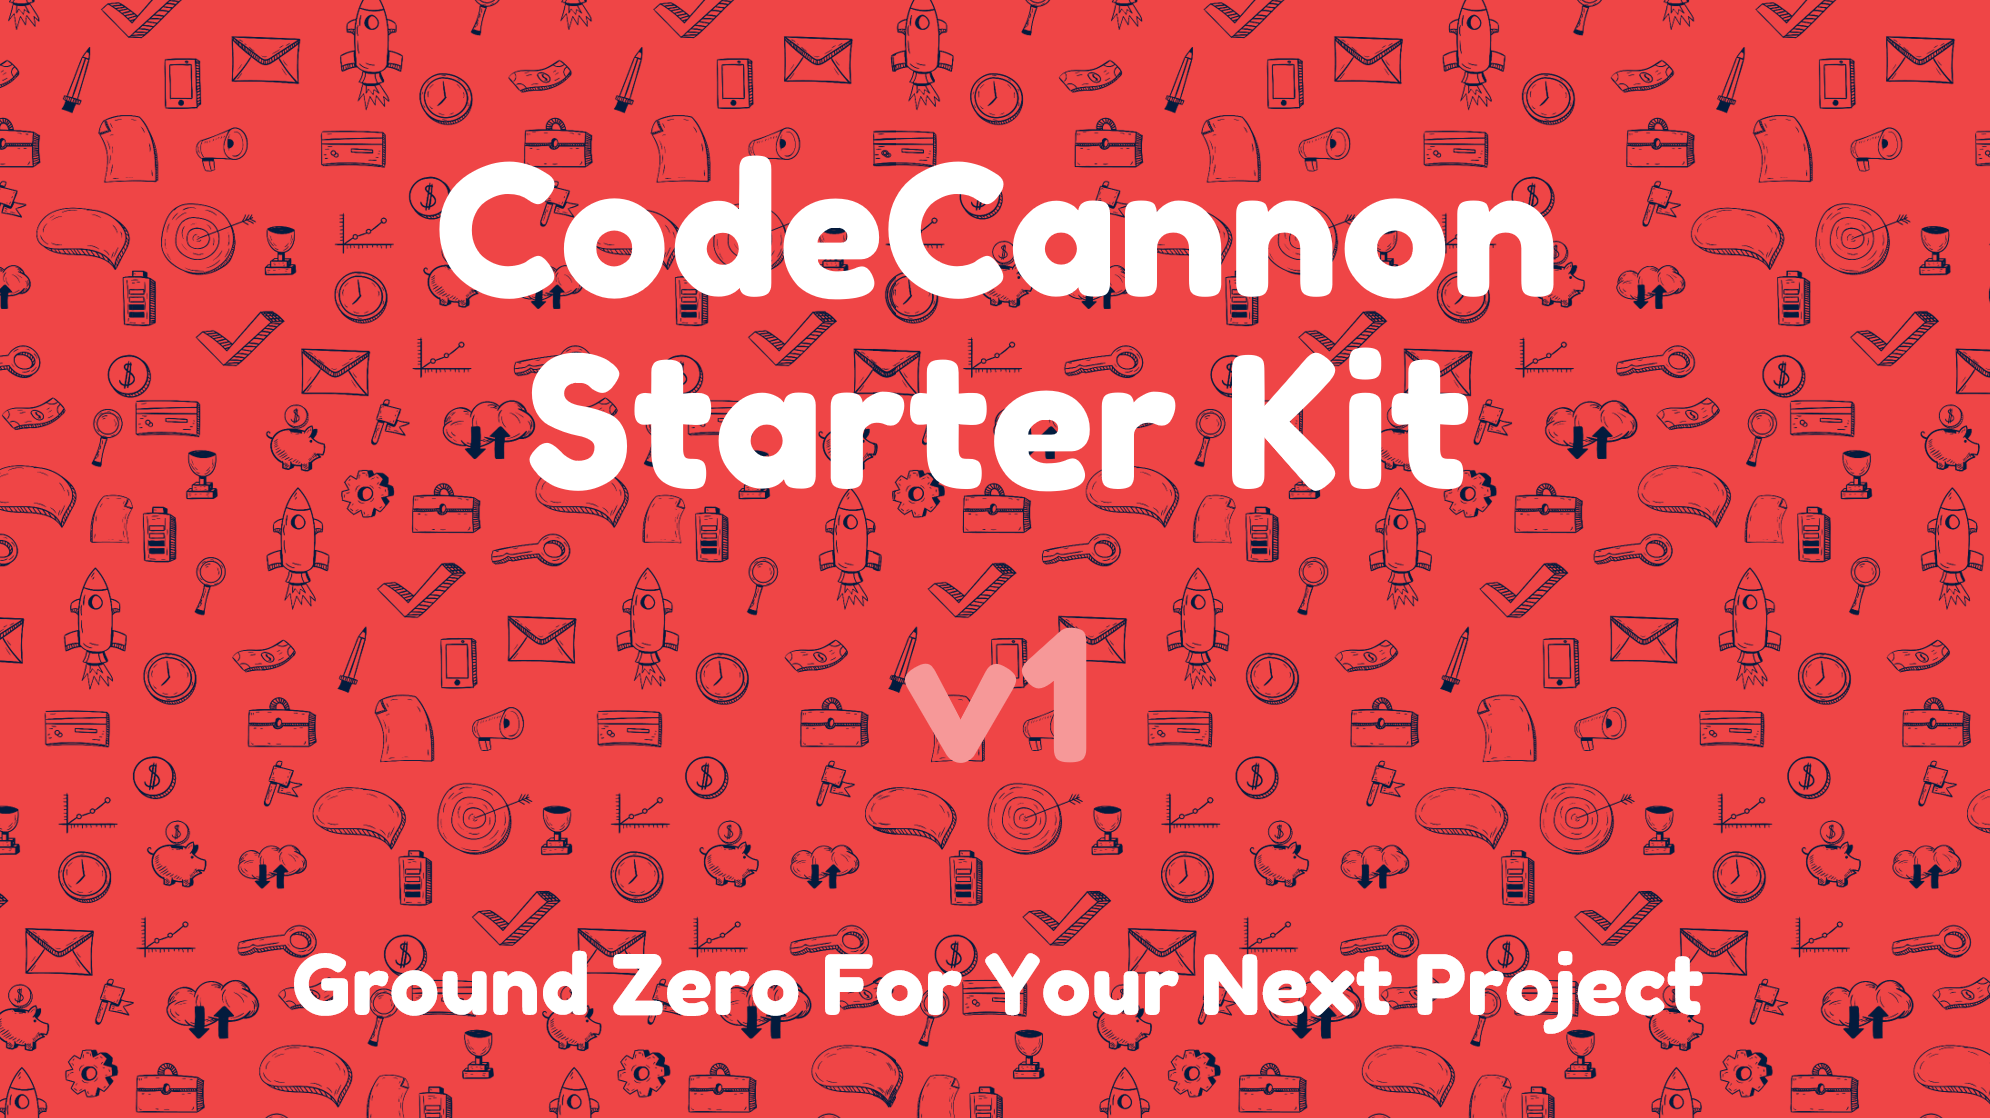
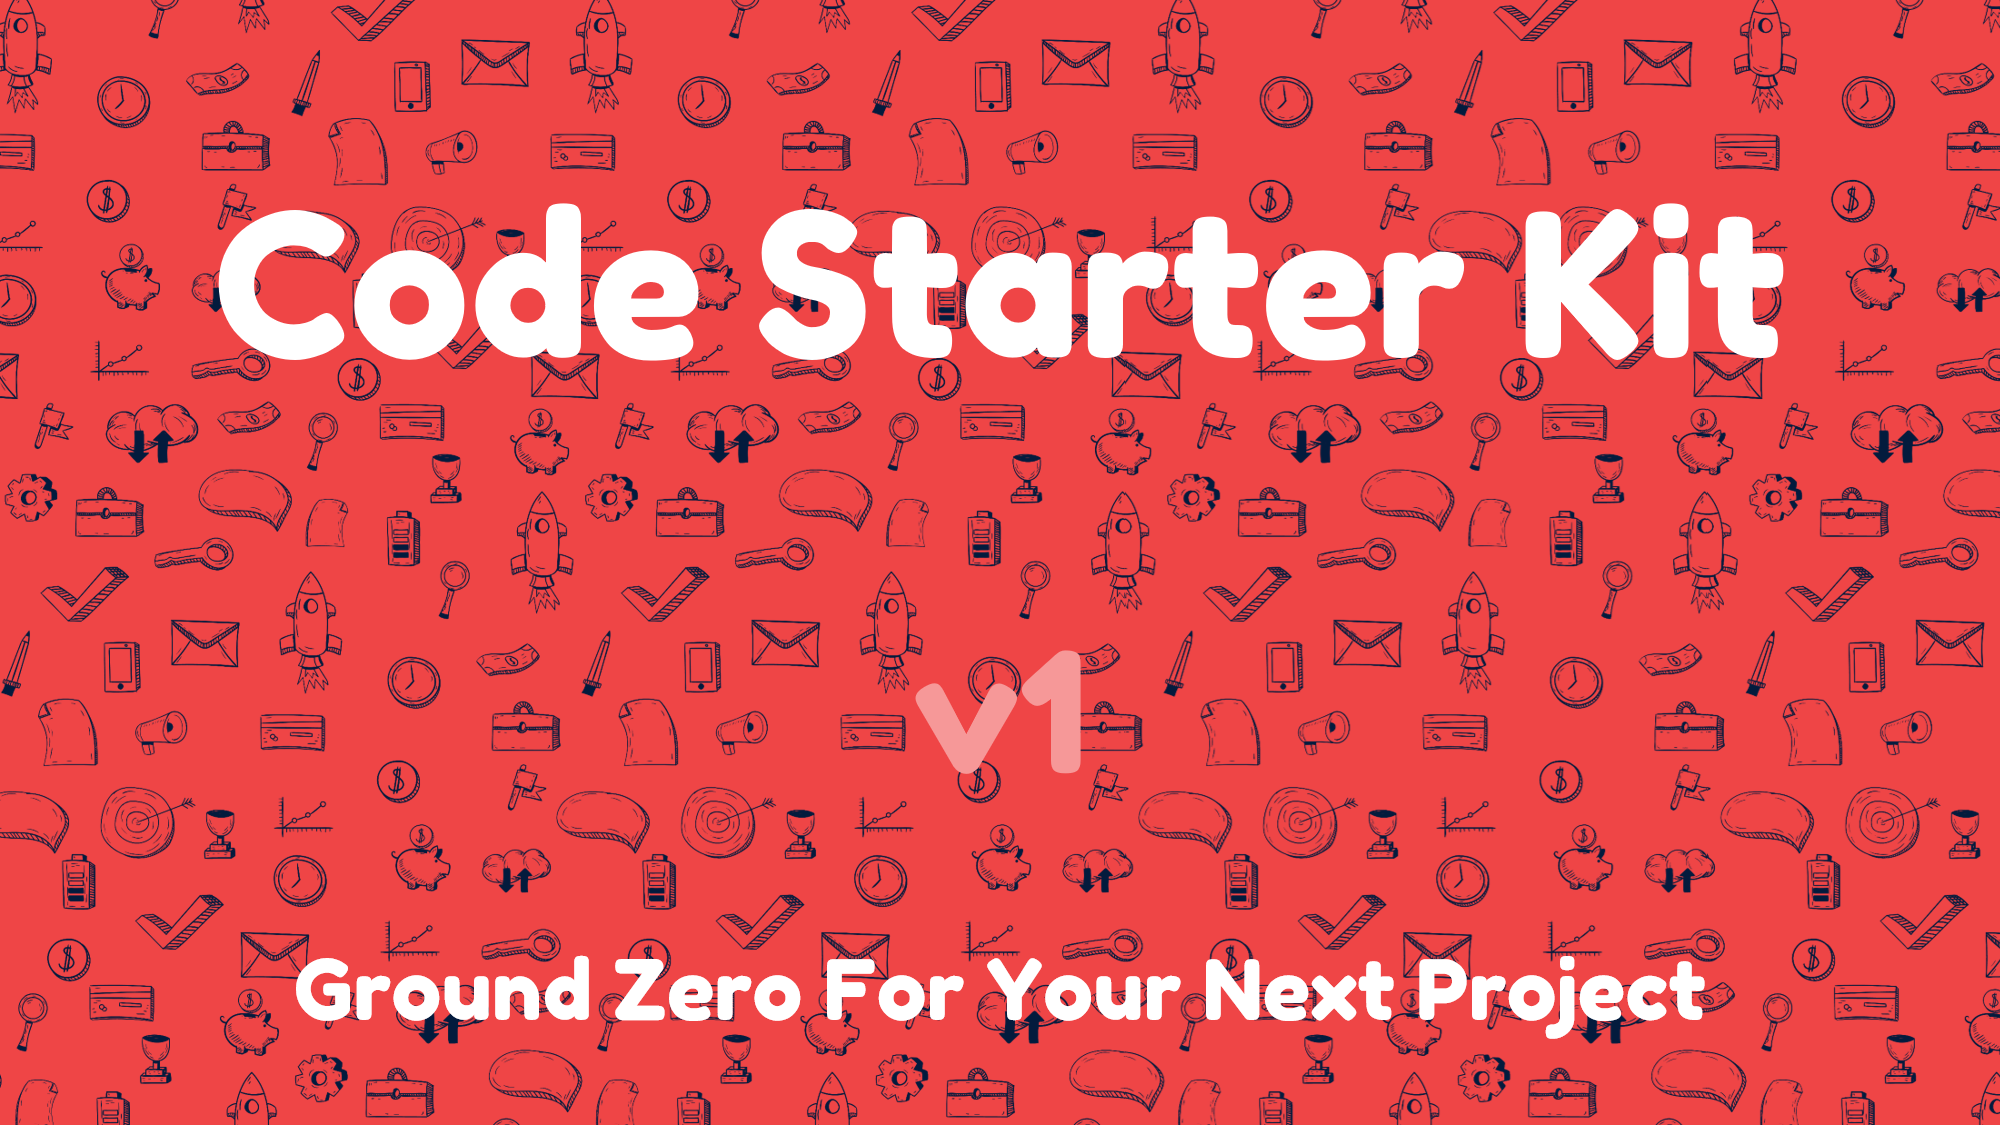
re-branded from codecannon to code starter kit

diff --git a/index.html b/index.html
@@ -1,33 +1,35 @@
 <!DOCTYPE html>
 <html lang="en">
 <head>
-  <title>CodeCannon Starter Kit</title>
-  <meta name="description" content="Use this as a simple structure for a simple start to a simple site. | CodeCannon Starter Kit">
+  <title>Code Starter Kit</title>
   <meta charset="utf-8">
   <meta name="viewport" content="width=device-width, initial-scale=1">
+  <meta http-equiv="X-UA-Compatible" content="ie=edge">
+  <meta name="description" content="Use this as a simple structure for a simple start to a simple site. | Code Starter Kit">
   <link rel="icon" type="image/x-icon" href="favicon.ico">
   <link rel="stylesheet" href="assets/css/style.css" />
+
   <!-- Social Media Meta Tags (You can delete this section) -->
     <!-- Google Card -->
-    <meta itemprop="image" content="//raw.githubusercontent.com/code-cannon/codecannon-starter-kit/master/assets/img/starter-kit-cover.png">
+    <meta itemprop="image" content="https://raw.githubusercontent.com/mittalyashu/code-starter-kit/master/assets/img/starter-kit-cover.png">
     <!-- Facebook Card -->
-    <meta property="og:image" content="//raw.githubusercontent.com/code-cannon/codecannon-starter-kit/master/assets/img/starter-kit-cover.png">
-
+    <meta property="og:image" content="https://raw.githubusercontent.com/mittalyashu/code-starter-kit/master/assets/img/starter-kit-cover.png">
     <!-- Twitter Card -->
-    <meta name="twitter:image" content="//raw.githubusercontent.com/code-cannon/codecannon-starter-kit/master/assets/img/starter-kit-cover.png">
+    <meta name="twitter:image" content="https://raw.githubusercontent.com/mittalyashu/code-starter-kit/master/assets/img/starter-kit-cover.png">
   <!-- End of Social Media Tags -->
+
 </head>
 <body>
 
 <div class="page-home">
 
   <section>
-    <h1 class="page-title">CodeCannon<br>Starter Kit</h1>
+    <h1 class="page-title">Code<br>Starter Kit</h1>
     <p>Ground zero for your next project.</p>
 
-    <a target="_blank" href="//github.com/code-cannon/codecannon-starter-kit/archive/master.zip" class="button button-download">Download Now</a>
+    <a target="_blank" href="https://github.com/mittalyashu/code-starter-kit/archive/master.zip" class="button button-download">Download Now</a>
 
-    <a target="_blank" class="fork-tag" href="//code-cannon.github.io/codecannon-starter-kit/">Fork Me on GitHub</a>
+    <a target="_blank" class="fork-tag" href="https://github.com/mittalyashu/code-starter-kit">Fork Me on GitHub</a>
 
   </section>
 
@@ -45,11 +47,11 @@
     <article>
       <p>Brought to you by</p>
       <div class="name-lockup">
-        <img class="avatar" src="//scontent.fixc1-1.fna.fbcdn.net/v/t1.0-9/19657443_1438267526235254_713187457986091227_n.jpg?oh=9b6b0bf39ccdcb97b119769a67b496ee&oe=5A105AB1">
+        <img class="avatar" src="https://pbs.twimg.com/profile_images/962697963834429445/6UGXsSCA_400x400.jpg">
         <div class="name">
           <strong>Yashu Mittal</strong>
           <br>
-          <a href="https://twitter.com/code_cannon">@code_cannon</a>
+          <a href="https://twitter.com/mittalyashu77">@mittalyashu77</a>
         </div>
       </div>
   </article>
